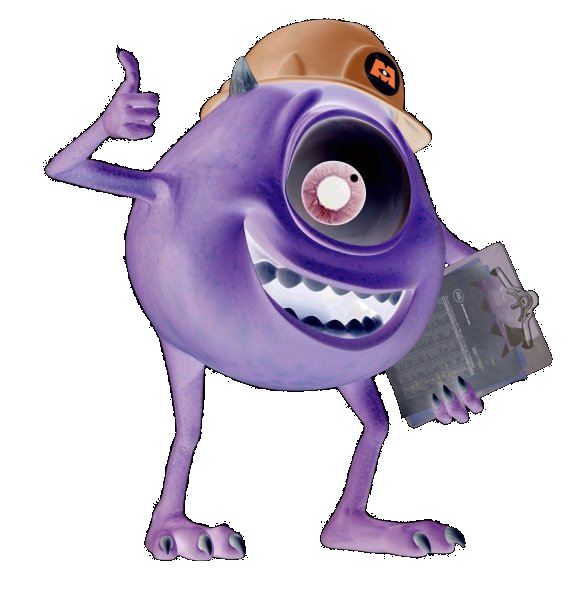
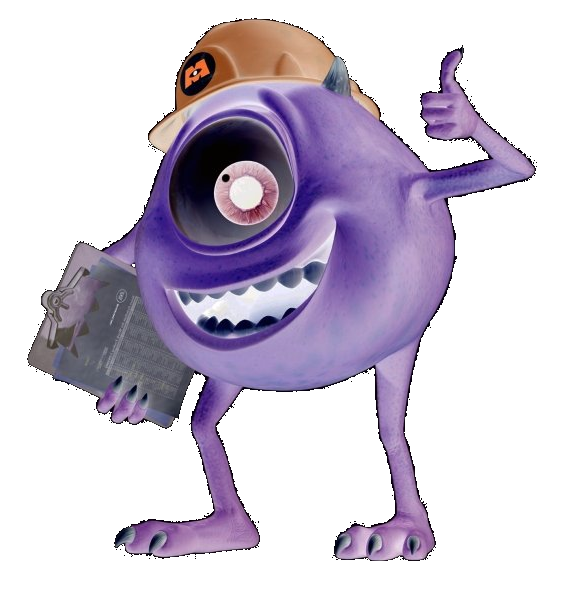
mirror

diff --git a/Lab2/src/ua/kas/main/Controller.java b/Lab2/src/ua/kas/main/Controller.java
@@ -56,7 +56,8 @@ public class Controller {
 				green = (pixel >> 8) & 0xff;
 				blue = (pixel >> 0) & 0xff;
 
-				newImage.setRGB(width, height, new Color(255 - red, 255 - green, 255 - blue, alpha).getRGB());
+				newImage.setRGB(image.getWidth() - width - 1, height,
+						new Color(255 - red, 255 - green, 255 - blue, alpha).getRGB());
 			}
 		}
 
